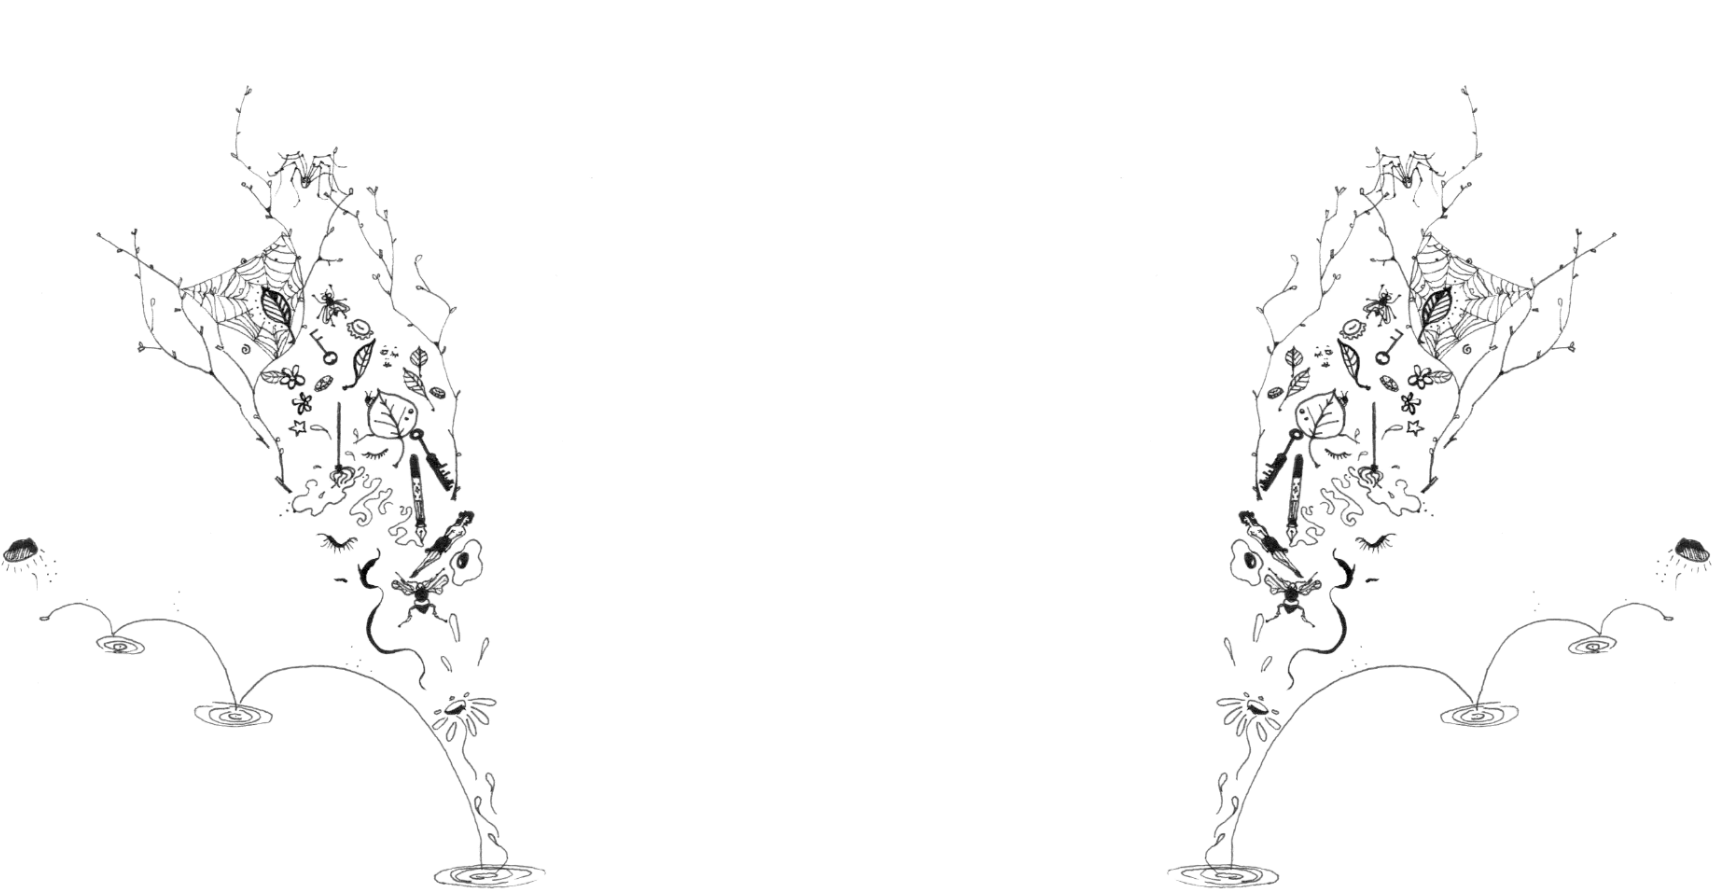
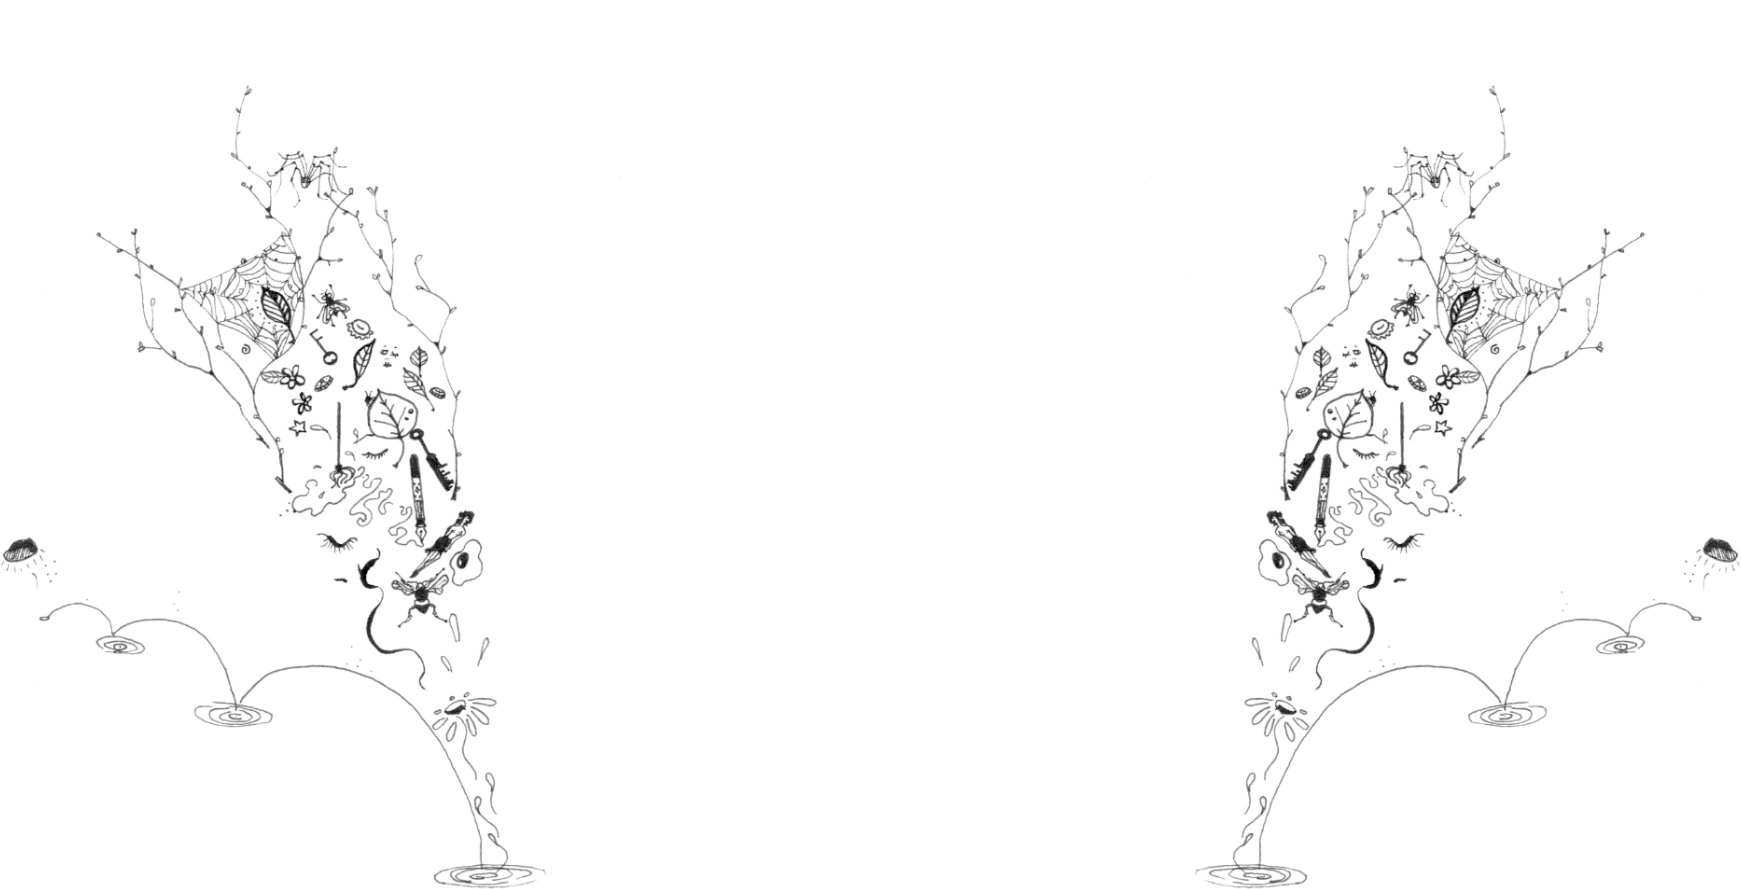
Fixed the centering slightly

diff --git a/app/assets/stylesheets/scaffolds.css.scss b/app/assets/stylesheets/scaffolds.css.scss
@@ -16,7 +16,7 @@ body {
     font-size: 16px;
     background-image: url('background.png');
     background-repeat: no-repeat;
-    background-position: 52% 0%;
+    background-position: 50% 0%;
 }
 
 h1 {
